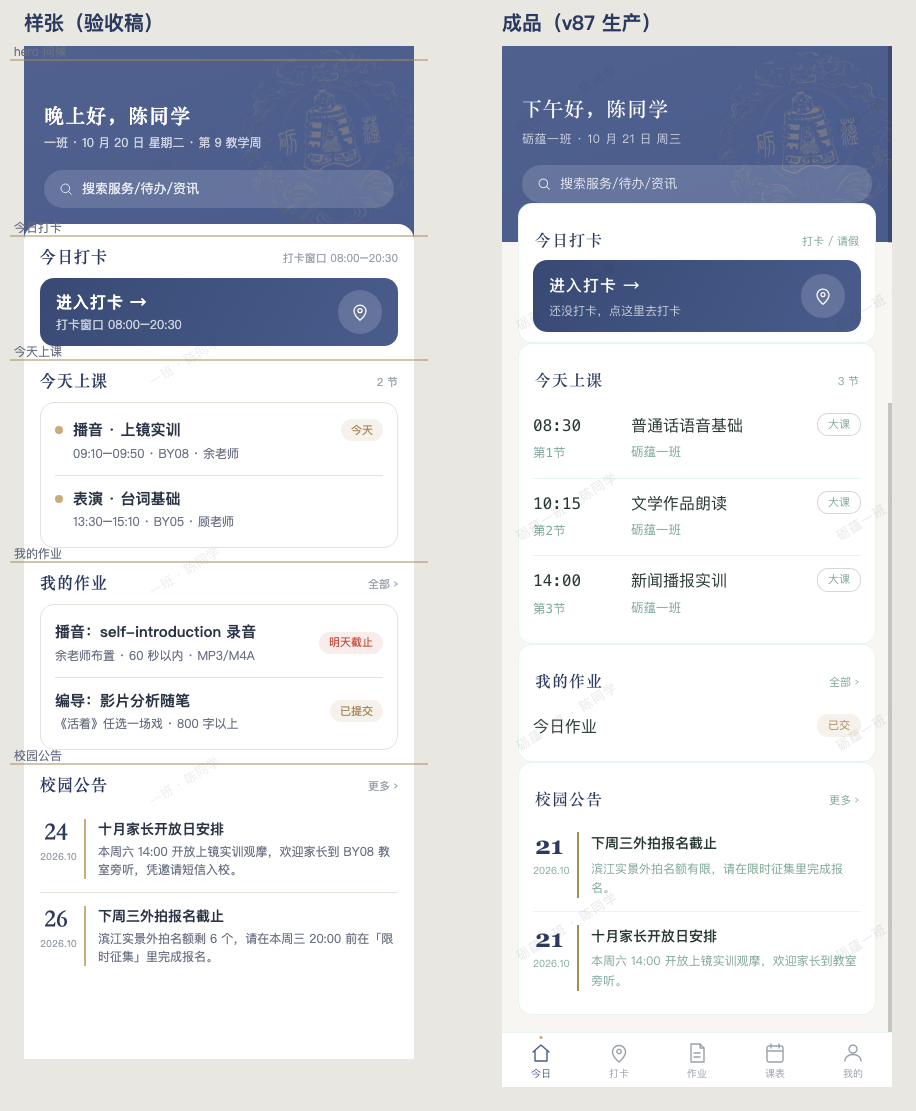
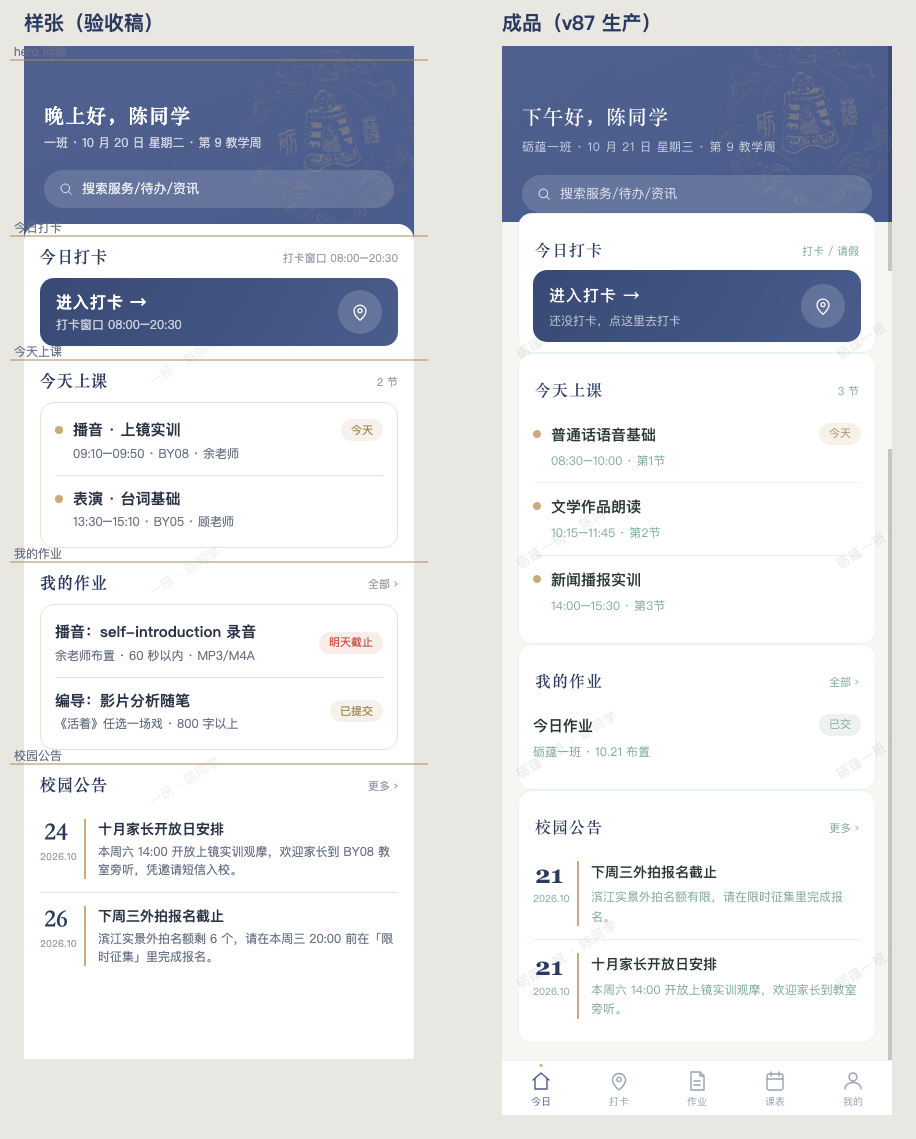
v87 两页样例逐块对齐样张修订

diff --git a/index.html b/index.html
@@ -2043,8 +2043,9 @@ body.board-mode .mtabbar{display:none!important}
    · 搜索胶囊为装饰样式：生产无全局搜索功能，未接（元素 title 已注明）。 */
 .m2-only{display:none}
 @media (max-width:1099.98px){
-  /* ── 页面级：头带加高（学生 hero 多一条搜索胶囊）、桌面页头退场 ── */
-  #page-stuHome.on{--hero-h:196px}
+  /* ── 页面级：头带加高（学生 hero 多一条搜索胶囊）、桌面页头退场 ──
+     蓝带可见高度对齐样张：样张 .hero min-height 200 − sheet 叠头 24 = 176。 */
+  #page-stuHome.on{--hero-h:176px}
   #page-stuHome.on > .page-title,
   #page-stuHome.on > .page-sub{display:none}
 
@@ -2062,7 +2063,7 @@ body.board-mode .mtabbar{display:none!important}
 
   /* ── hero：大问候 + 副题 + 搜索胶囊（样张 .greet/.sub/.search-pill）── */
   #page-stuHome.on > .m2-hero{
-    margin:0 -16px; padding:calc(env(safe-area-inset-top,0px) + 46px) 20px 0;
+    margin:0 -16px; padding:calc(env(safe-area-inset-top,0px) + 54px) 20px 0;
     position:relative; z-index:1;
   }
   #page-stuHome.on .m2-greet{
@@ -2072,7 +2073,7 @@ body.board-mode .mtabbar{display:none!important}
     font-size:12px; color:rgba(255,255,255,.72); margin-top:4px; letter-spacing:.5px;
   }
   #page-stuHome.on .m2-search{
-    display:flex; align-items:center; gap:8px; height:38px; margin-top:16px;
+    display:flex; align-items:center; gap:8px; height:38px; margin-top:18px;
     padding:0 14px; border-radius:19px; background:rgba(255,255,255,.14);
     color:rgba(255,255,255,.85); font-size:13px;
   }
@@ -2115,6 +2116,32 @@ body.board-mode .mtabbar{display:none!important}
     width:44px; height:44px; border-radius:50%; background:rgba(255,255,255,.16); color:#fff;
   }
 
+  /* ── 今天上课（样张 .sched 金点行）：M2Pages 按 Stu.todayLessons() 真数据重画，
+        原表格式 #stuToday 本块隐藏（桌面照旧）。第一行右侧「今天」金签。── */
+  #page-stuHome.on #stuToday{display:none}
+  #page-stuHome.on .m2-schedlist{display:block; padding:0 0 6px}
+  #page-stuHome.on .m2-row{
+    display:flex; align-items:flex-start; gap:10px; padding:12px 0;
+  }
+  #page-stuHome.on .m2-row + .m2-row{border-top:1px solid var(--line)}
+  #page-stuHome.on .m2-row .dot{
+    flex:none; width:8px; height:8px; border-radius:50%;
+    background:var(--gold); margin-top:7px;
+  }
+  #page-stuHome.on .m2-row .info{flex:1; min-width:0}
+  #page-stuHome.on .m2-row .name{font-size:15px; font-weight:600; color:var(--text)}
+  #page-stuHome.on .m2-row .meta{font-size:12px; color:var(--text-dim); margin-top:3px}
+  #page-stuHome.on .m2-pill{
+    flex:none; display:inline-flex; align-items:center; height:22px; padding:0 10px;
+    border-radius:11px; font-size:11px; line-height:1; white-space:nowrap;
+  }
+  #page-stuHome.on .m2-pill.gold{background:rgba(201,171,124,.16); color:var(--gold-deep)}
+  #page-stuHome.on .m2-pill.gray{background:rgba(122,128,140,.12); color:var(--text-dim)}
+
+  /* ── 我的作业（样张 .todo 富卡行）：M2Pages 按 Homework.flow 真数据重画，
+        原单行 #stuHwToday 本块隐藏（桌面照旧）。未交=金签、已交=灰签。── */
+  #page-stuHome.on #stuHwToday{display:none}
+
   /* ── 校园公告（样张 .notice 日期块）：M2Pages 按 Store『notices』真数据重画，
         原容器 #stuNotices 本块隐藏（桌面照旧）── */
   #page-stuHome.on #stuNotices{display:none}
@@ -2124,7 +2151,7 @@ body.board-mode .mtabbar{display:none!important}
   }
   #page-stuHome.on .m2-notice + .m2-notice{border-top:1px solid var(--line)}
   #page-stuHome.on .m2-notice .date{
-    flex:none; width:46px; text-align:center; padding-right:12px; border-right:2px solid var(--gold-deep);
+    flex:none; width:46px; text-align:center; padding-right:12px; border-right:2px solid var(--gold);
   }
   #page-stuHome.on .m2-notice .date .d{
     font-family:Georgia,var(--serif); font-size:25px; line-height:1.1;
@@ -2135,6 +2162,13 @@ body.board-mode .mtabbar{display:none!important}
   #page-stuHome.on .m2-notice .s{
     font-size:12px; color:var(--text-dim); margin-top:3px;
     display:-webkit-box; -webkit-line-clamp:2; -webkit-box-orient:vertical; overflow:hidden;
+  }
+
+  /* ── 深色：金点/金签跟 v85/v86 同一翻法（--gold 浅金在深底偏闷，翻生产深色金）── */
+  @media (prefers-color-scheme: dark){
+    #page-stuHome.on .m2-row .dot{background:#D9BE86}
+    #page-stuHome.on .m2-notice .date{border-right-color:#D9BE86}
+    #page-stuHome.on .m2-pill.gray{background:rgba(143,137,127,.16); color:#A9A296}
   }
 }
 /* ==STU2-PAGES-MOBILE-END== */
@@ -2161,9 +2195,11 @@ body.board-mode .mtabbar{display:none!important}
   #page-home.on > .m2-k-grid{order:7; margin-top:0; display:block}
   #page-home.on > .chapter{order:8}
 
-  /* ── hero：问候行（衬线白字 + 角色徽标）+ 副题（样张 .greet-row/.role-badge）── */
+  /* ── hero：问候行（衬线白字 + 角色徽标）+ 副题（样张 .greet-row/.role-badge）──
+     蓝带可见高度对齐样张：样张 .hero min-height 200 − sheet 叠头 24 = 176。 */
+  #page-home.on{--hero-h:176px}
   #page-home.on > .m2-hero{
-    margin:0 -16px; padding:calc(env(safe-area-inset-top,0px) + 46px) 20px 0;
+    margin:0 -16px; padding:calc(env(safe-area-inset-top,0px) + 54px) 20px 0;
     position:relative; z-index:1;
   }
   #page-home.on .m2-greet-row{display:flex; align-items:center; gap:10px}
@@ -2204,7 +2240,7 @@ body.board-mode .mtabbar{display:none!important}
   #page-home.on .m2-row + .m2-row{border-top:1px solid var(--line)}
   #page-home.on .m2-row .dot{
     flex:none; width:8px; height:8px; border-radius:50%;
-    background:var(--gold-deep); margin-top:7px;
+    background:var(--gold); margin-top:7px;
   }
   #page-home.on .m2-row .dot.bad{background:#c44a3a}
   #page-home.on .m2-row .info{flex:1; min-width:0}
@@ -2245,6 +2281,7 @@ body.board-mode .mtabbar{display:none!important}
     #page-home.on .m2-grid4 .tile{background:rgba(217,190,134,.12); color:#D9BE86}
     #page-home.on .m2-pill.red{background:rgba(196,74,58,.16); color:#E89286}
     #page-home.on .m2-pill.blue{background:rgba(217,190,134,.12); color:#D9BE86}
+    #page-home.on .m2-row .dot{background:#D9BE86}
     #page-home.on .m2-row .dot.bad{background:#E89286}
     #page-home.on .m2-row .name.m2-reddot::before{background:#E89286}
   }
@@ -4352,11 +4389,13 @@ try {
       </div>
       <div class="card m2-k-cls">
         <div class="m2-sec m2-only"><h2>今天上课</h2><span class="more" id="m2StuClsMore"></span></div>
+        <div class="m2-schedlist m2-only" id="m2StuCls"></div>
         <h2><svg class="ic ic-inline" viewBox="0 0 24 24" aria-hidden="true" focusable="false"><use href="#ic-calendar"></use></svg>  今天上什么课</h2>
         <div id="stuToday"></div>
       </div>
       <div class="card m2-k-hw">
         <div class="m2-sec m2-only"><h2>我的作业</h2><a class="more" href="#" onclick="App.go('stuHw');return false">全部 ›</a></div>
+        <div class="m2-schedlist m2-only" id="m2StuHw"></div>
         <h2><svg class="ic ic-inline" viewBox="0 0 24 24" aria-hidden="true" focusable="false"><use href="#ic-memo"></use></svg> 今日作业</h2>
         <div id="stuHwToday"></div>
       </div>
@@ -17984,11 +18023,23 @@ const M2Pages = {
     return p.length === 2 ? (p[1].trim() + '，' + p[0].trim()) : t;
   },
 
-  /* 「10 月 20 日 星期二」（真实系统日期） */
-  dateCn(){
+  /* 「10 月 20 日 星期二」（真实系统日期，星期全称 —— 样张 hero 副题的三段式中间段） */
+  dateFull(){
     const d = new Date();
-    const wd = ['周日','周一','周二','周三','周四','周五','周六'][d.getDay()];
+    const wd = ['星期日','星期一','星期二','星期三','星期四','星期五','星期六'][d.getDay()];
     return (d.getMonth() + 1) + ' 月 ' + d.getDate() + ' 日 ' + wd;
+  },
+
+  /* 「第 X 教学周」：本系统没有任何学期设置数据（登录页/看板的「第 9 教学周」
+     是写死的静态文案），要实算只能立一个锚 —— 取 2026-08-24（周一）为秋季学期
+     第一教学周起点，与全站既有静态文案口径一致（2026-10 下旬=第 9 周）。
+     周一为每周起点；早于开学返回空串（不显示周次）。 */
+  termWeek(){
+    const TERM = new Date(2026, 7, 24);            /* 2026-08-24 */
+    const now = new Date(); now.setHours(0, 0, 0, 0);
+    const monday = new Date(now); monday.setDate(now.getDate() - ((now.getDay() + 6) % 7));
+    const diff = Math.floor((monday - TERM) / 86400000 / 7) + 1;
+    return diff >= 1 ? '第 ' + diff + ' 教学周' : '';
   },
 
   /* ── 学生「今日」页（样张 m-home-student）── */
@@ -17997,7 +18048,7 @@ const M2Pages = {
       this._set('m2StuGreet', this.greet());
       const r = Stu.rec();
       const cls = r ? Util.clsName(r.classId) : '';
-      this._set('m2StuSub', [cls, this.dateCn()].filter(Boolean).join(' · '));
+      this._set('m2StuSub', [cls, this.dateFull(), this.termWeek()].filter(Boolean).join(' · '));
 
       /* 打卡入口大按钮：真实打卡态（请假 / 已打卡含迟到分钟 / 未打卡），纯读取 */
       const g = Stu.gate();
@@ -18013,9 +18064,26 @@ const M2Pages = {
       this._set('m2StuSignBs', bs);
       this._set('m2StuSignMore', '打卡 / 请假');
 
-      /* 今天上课：节数 = Stu.todayLessons() 真数据 */
-      const n = Stu.todayLessons().length;
+      /* 今天上课：节数 = Stu.todayLessons() 真数据；卡内重画成样张金点时间线行
+         （name=课程 · meta=时间段 · 教室 · 节次），第一行右侧「今天」金签。 */
+      const ls = Stu.todayLessons();
+      const n = ls.length;
       this._set('m2StuClsMore', n ? n + ' 节' : '今天没有排课');
+      const cb = document.getElementById('m2StuCls');
+      if (cb){
+        const periods = Store.list('periods');
+        cb.innerHTML = n ? ls.map(x => {
+          const p = periods.find(pp => pp && pp.id === x.periodId) || {};
+          const seg = (p.start || x.time || '') + (p.end ? '–' + p.end : '');
+          const bits = [seg, x.room || '', p.name || ''].filter(Boolean).map(Util.esc).join(' · ');
+          return '<div class="m2-row"><span class="dot"></span><div class="info">' +
+            '<div class="name">' + Util.esc(x.title || '') + '</div>' +
+            '<div class="meta">' + bits + '</div></div></div>';
+        }).join('') : '<div class="m2-row"><div class="info"><div class="meta">今天没有排课</div></div></div>';
+        /* 「今天」金签：只挂第一行（样张只标首条） */
+        const first = cb.querySelector('.m2-row');
+        if (first && n) first.insertAdjacentHTML('beforeend', '<span class="m2-pill gold">今天</span>');
+      }
 
       /* 校园公告：与 StuHome.render 同一数据源（Store.list('notices')），
          重画成样张日期块；首行当标题，其余当摘要，原文一字不减 */
@@ -18034,6 +18102,25 @@ const M2Pages = {
             '</div>' + (rest ? '<div class="s">' + Util.esc(rest) + '</div>' : '') + '</div></div>';
         }).join('') : '<div class="m2-notice"><div><div class="t">还没有通知</div></div></div>';
       }
+
+      /* 我的作业：与 StuHw 同一数据源（Homework.flow 当天），重画成样张富卡行。
+         真实状态映射：当天作业当晚要交 —— 未交=金签「今晚截止」、已交=灰签「已交」；
+         副行是真实的班级与布置日期（作业数据里没有独立「课程/要求」字段）。 */
+      const hb = document.getElementById('m2StuHw');
+      if (hb){
+        const d = Util.today();
+        const rows = (typeof Homework !== 'undefined' && Homework.flow)
+          ? Homework.flow(Stu.sid(), Stu.clsId()).filter(x => x.date === d) : [];
+        const hwCls = Util.esc(Util.clsName(Stu.clsId()) || '');
+        hb.innerHTML = rows.length ? rows.map(x => {
+          const md = String(x.date || '').slice(5).replace('-', '.');
+          return '<div class="m2-row"><div class="info">' +
+            '<div class="name">' + Util.esc(x.text || '') + '</div>' +
+            '<div class="meta">' + hwCls + (md ? ' · ' + Util.esc(md) + ' 布置' : '') + '</div></div>' +
+            (x.done ? '<span class="m2-pill gray">已交</span>'
+                    : '<span class="m2-pill gold">今晚截止</span>') + '</div>';
+        }).join('') : '<div class="m2-row"><div class="info"><div class="meta">今天没有作业</div></div></div>';
+      }
     } catch(e){}
   },
 
@@ -18048,7 +18135,8 @@ const M2Pages = {
 
       const stus = (typeof Util.realStudents === 'function') ? Util.realStudents() : Store.list('students');
       const classes = Store.list('classes');
-      this._set('m2AdmSub', this.dateCn() + ' · ' + classes.length + ' 个班 · ' + stus.length + ' 位在读学员');
+      this._set('m2AdmSub', [this.dateFull(), this.termWeek(),
+        classes.length + ' 个班', stus.length + ' 位在读学员'].filter(Boolean).join(' · '));
 
       const t = Util.today();
       const todayName = Schedule.DAYS[(new Date().getDay() + 6) % 7];
